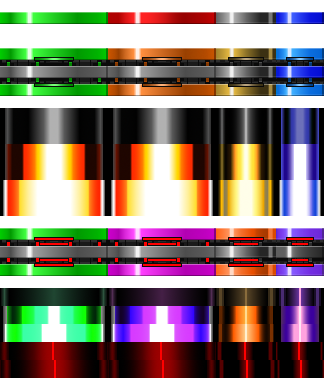
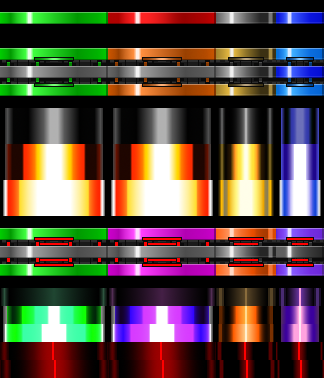
Clip less

diff --git a/share/RhythmGame/themes/Default/scripts/gameplay/BgaRenderer.qml b/share/RhythmGame/themes/Default/scripts/gameplay/BgaRenderer.qml
@@ -23,7 +23,7 @@ Item {
         anchors.centerIn: parent
         height: Math.max(videoBase.sourceRect.height, videoLayer.sourceRect.height, videoLayer2.sourceRect.height, videoPoor.sourceRect.height, 256)
         layer.enabled: true
-        layer.smooth: true
+        //layer.smooth: true
         scale: parent.height / height
         width: Math.max(videoBase.sourceRect.width, videoLayer.sourceRect.width, videoLayer2.sourceRect.width, videoPoor.sourceRect.width, 256)
 

diff --git a/share/RhythmGame/themes/Default/scripts/gameplay/BarLinePositioner.qml b/share/RhythmGame/themes/Default/scripts/gameplay/BarLinePositioner.qml
@@ -7,7 +7,6 @@ Flickable {
     required property real position
     property alias model: barlinesRepeater.model
     interactive: false
-    clip: true
     contentY: -(column.position * column.heightMultiplier + height * (1 - playArea.generalVars.liftOn * playArea.generalVars.liftRatio)) + 0.5
     contentWidth: width
 

diff --git a/share/RhythmGame/themes/Default/scripts/gameplay/NoteColumn.qml b/share/RhythmGame/themes/Default/scripts/gameplay/NoteColumn.qml
@@ -40,7 +40,6 @@ Item {
         anchors.fill: parent
 
         contentWidth: column.width
-        clip: true
         interactive: false
 
         contentY: -(column.position * column.heightMultiplier + height * (1 - playArea.generalVars.liftOn * playArea.generalVars.liftRatio)) + column.noteHeight / 3

diff --git a/share/RhythmGame/themes/Default/scripts/gameplay/PlayArea.qml b/share/RhythmGame/themes/Default/scripts/gameplay/PlayArea.qml
@@ -71,8 +71,6 @@ Item {
         id: playObjectContainer
 
         anchors.fill: parent
-        layer.enabled: true
-        layer.smooth: true
 
         Image {
             id: laneCover

diff --git a/share/RhythmGame/themes/Default/scripts/gameplay/JudgementCounts.qml b/share/RhythmGame/themes/Default/scripts/gameplay/JudgementCounts.qml
@@ -35,7 +35,6 @@ Item {
         anchors.margins: 8
         spacing: 4
 
-        clip: true
         Text {
             Layout.fillWidth: true
             Layout.fillHeight: true
